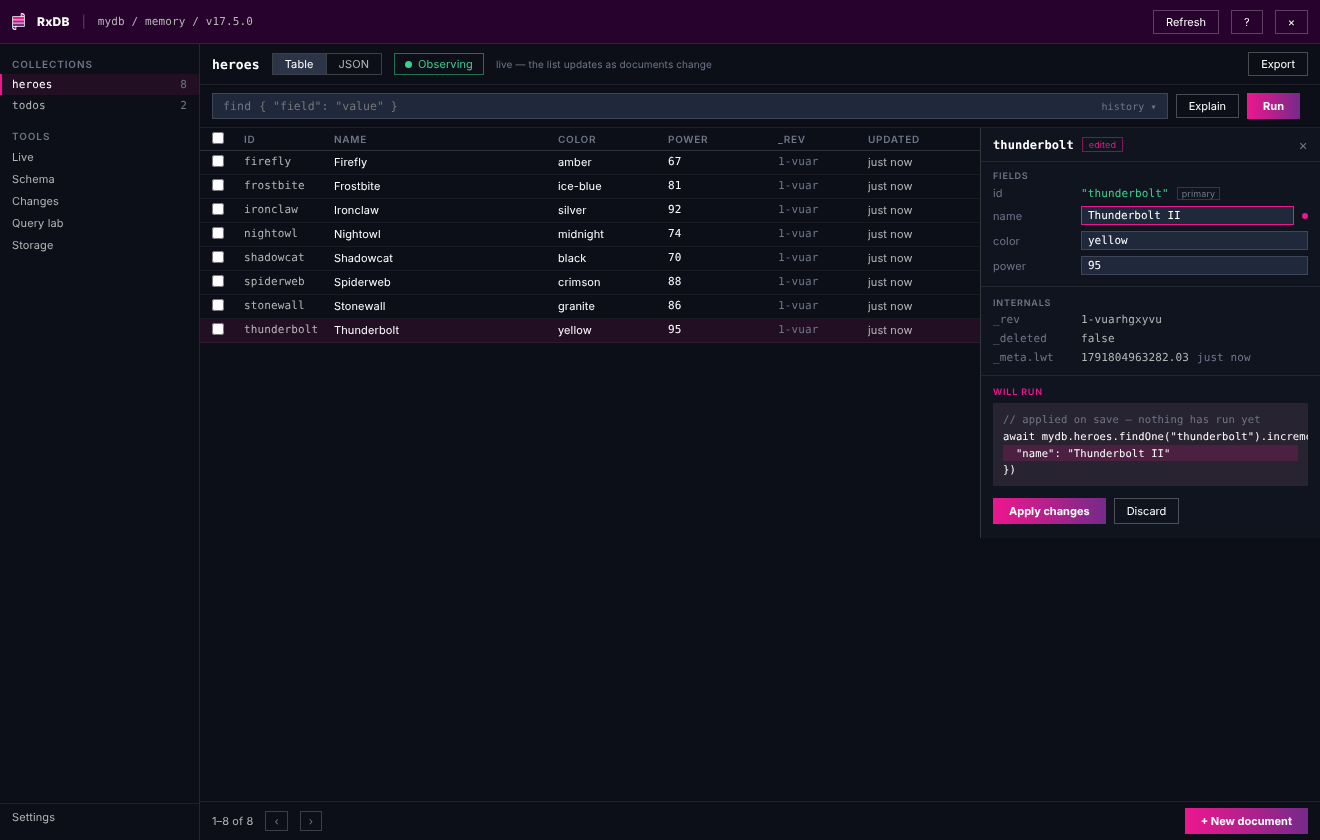
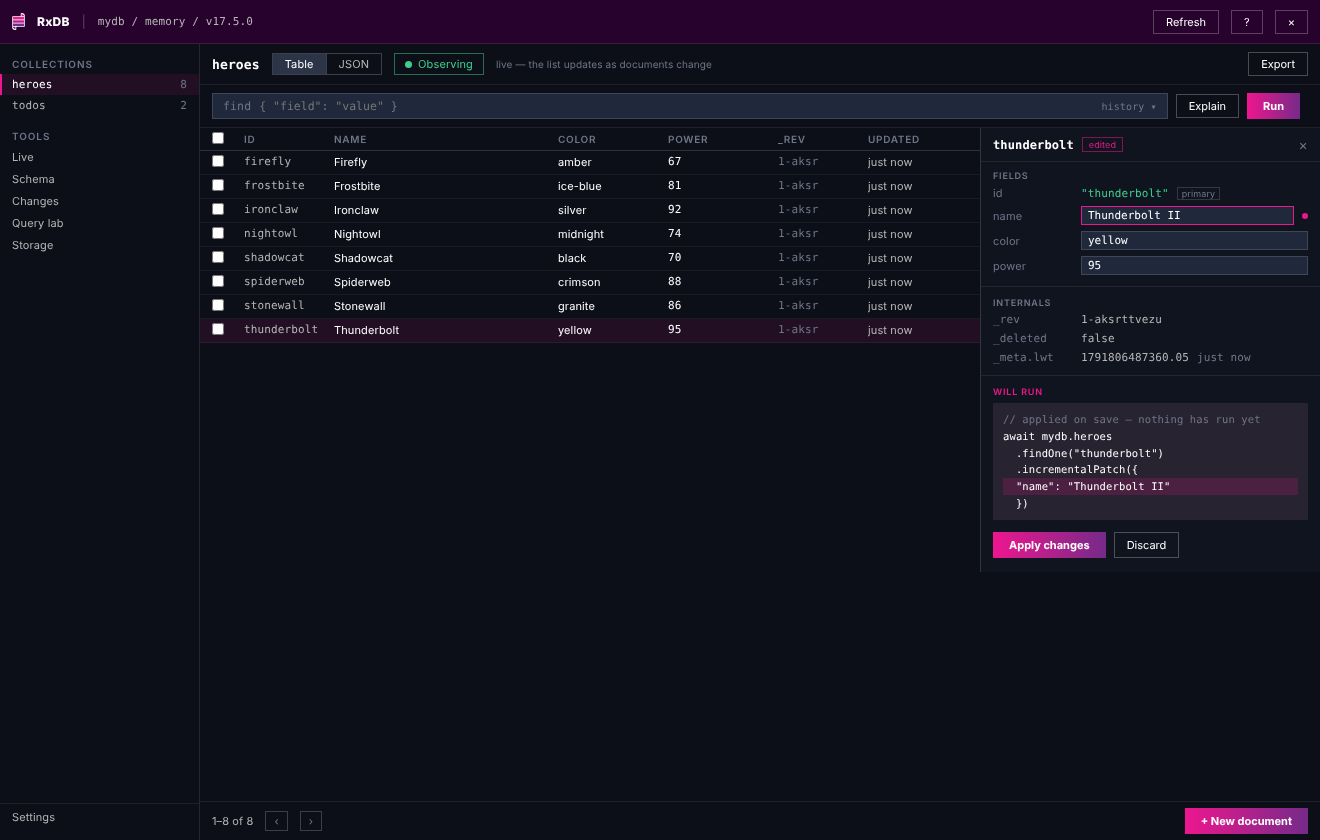
dbviewer: break the WILL RUN preview into one line per chained call
The patch and remove previews put findOne() and the write call on
their own indented lines, so the preview no longer overflows the
drawer width. The docs screenshot shows the new formatting.

Claude-Session: https://claude.ai/code/session_01XSWnG8xBeMGgwaLKniRnyJ

Changed region(s): [[0.7455, 0.4952, 0.9939, 0.681], [0.8386, 0.3714, 0.8697, 0.4333]]

diff --git a/src/plugins/dbviewer/dbviewer-helpers.ts b/src/plugins/dbviewer/dbviewer-helpers.ts
@@ -596,22 +596,29 @@ export function buildViewerWillRun(
     docId?: string
 ): ViewerWillRunLine[] {
     const lines: ViewerWillRunLine[] = [];
+    /**
+     * Chained calls break onto one line per call,
+     * so the preview stays narrow in the drawer.
+     */
     if (operation === 'remove') {
-        lines.push({
-            text: 'await ' + databaseName + '.' + collectionName + '.findOne(' + JSON.stringify(doc) + ').remove()',
-            changed: false
-        });
+        lines.push({ text: 'await ' + databaseName + '.' + collectionName, changed: false });
+        lines.push({ text: '  .findOne(' + JSON.stringify(doc) + ')', changed: false });
+        lines.push({ text: '  .remove()', changed: false });
         return lines;
     }
     let useDoc = doc;
     let opener = 'await ' + databaseName + '.' + collectionName + '.' + operation + '({';
+    let closer = '})';
     if (operation === 'patch') {
         const patchDoc: any = {};
         changedFields.forEach(field => {
             patchDoc[field] = doc[field];
         });
         useDoc = patchDoc;
-        opener = 'await ' + databaseName + '.' + collectionName + '.findOne(' + JSON.stringify(docId) + ').incrementalPatch({';
+        lines.push({ text: 'await ' + databaseName + '.' + collectionName, changed: false });
+        lines.push({ text: '  .findOne(' + JSON.stringify(docId) + ')', changed: false });
+        opener = '  .incrementalPatch({';
+        closer = '  })';
     }
     const json = JSON.stringify(useDoc, null, 2);
     const jsonLines = json.split('\n');
@@ -633,7 +640,7 @@ export function buildViewerWillRun(
             changed: changedFields.includes(currentField)
         });
     });
-    lines.push({ text: '})', changed: false });
+    lines.push({ text: closer, changed: false });
     return lines;
 }
 

diff --git a/test/unit/dbviewer.test.ts b/test/unit/dbviewer.test.ts
@@ -186,11 +186,14 @@ describe('dbviewer.test.ts', () => {
         });
         it('previews edits as incrementalPatch with only the changed fields', () => {
             const lines = buildViewerWillRun('mydb', 'todos', { id: 'a1', title: 'new title', done: true }, ['title'], 'patch', 'a1');
-            assert.strictEqual(lines[0].text, 'await mydb.todos.findOne("a1").incrementalPatch({');
-            const fieldLines = lines.slice(1, -1);
+            assert.strictEqual(lines[0].text, 'await mydb.todos');
+            assert.strictEqual(lines[1].text, '  .findOne("a1")');
+            assert.strictEqual(lines[2].text, '  .incrementalPatch({');
+            const fieldLines = lines.slice(3, -1);
             assert.strictEqual(fieldLines.length, 1);
             assert.ok(fieldLines[0].text.includes('"title"'));
             assert.strictEqual(fieldLines[0].changed, true);
+            assert.strictEqual(lines[lines.length - 1].text, '  })');
         });
     });
     describe('formatting helpers', () => {
